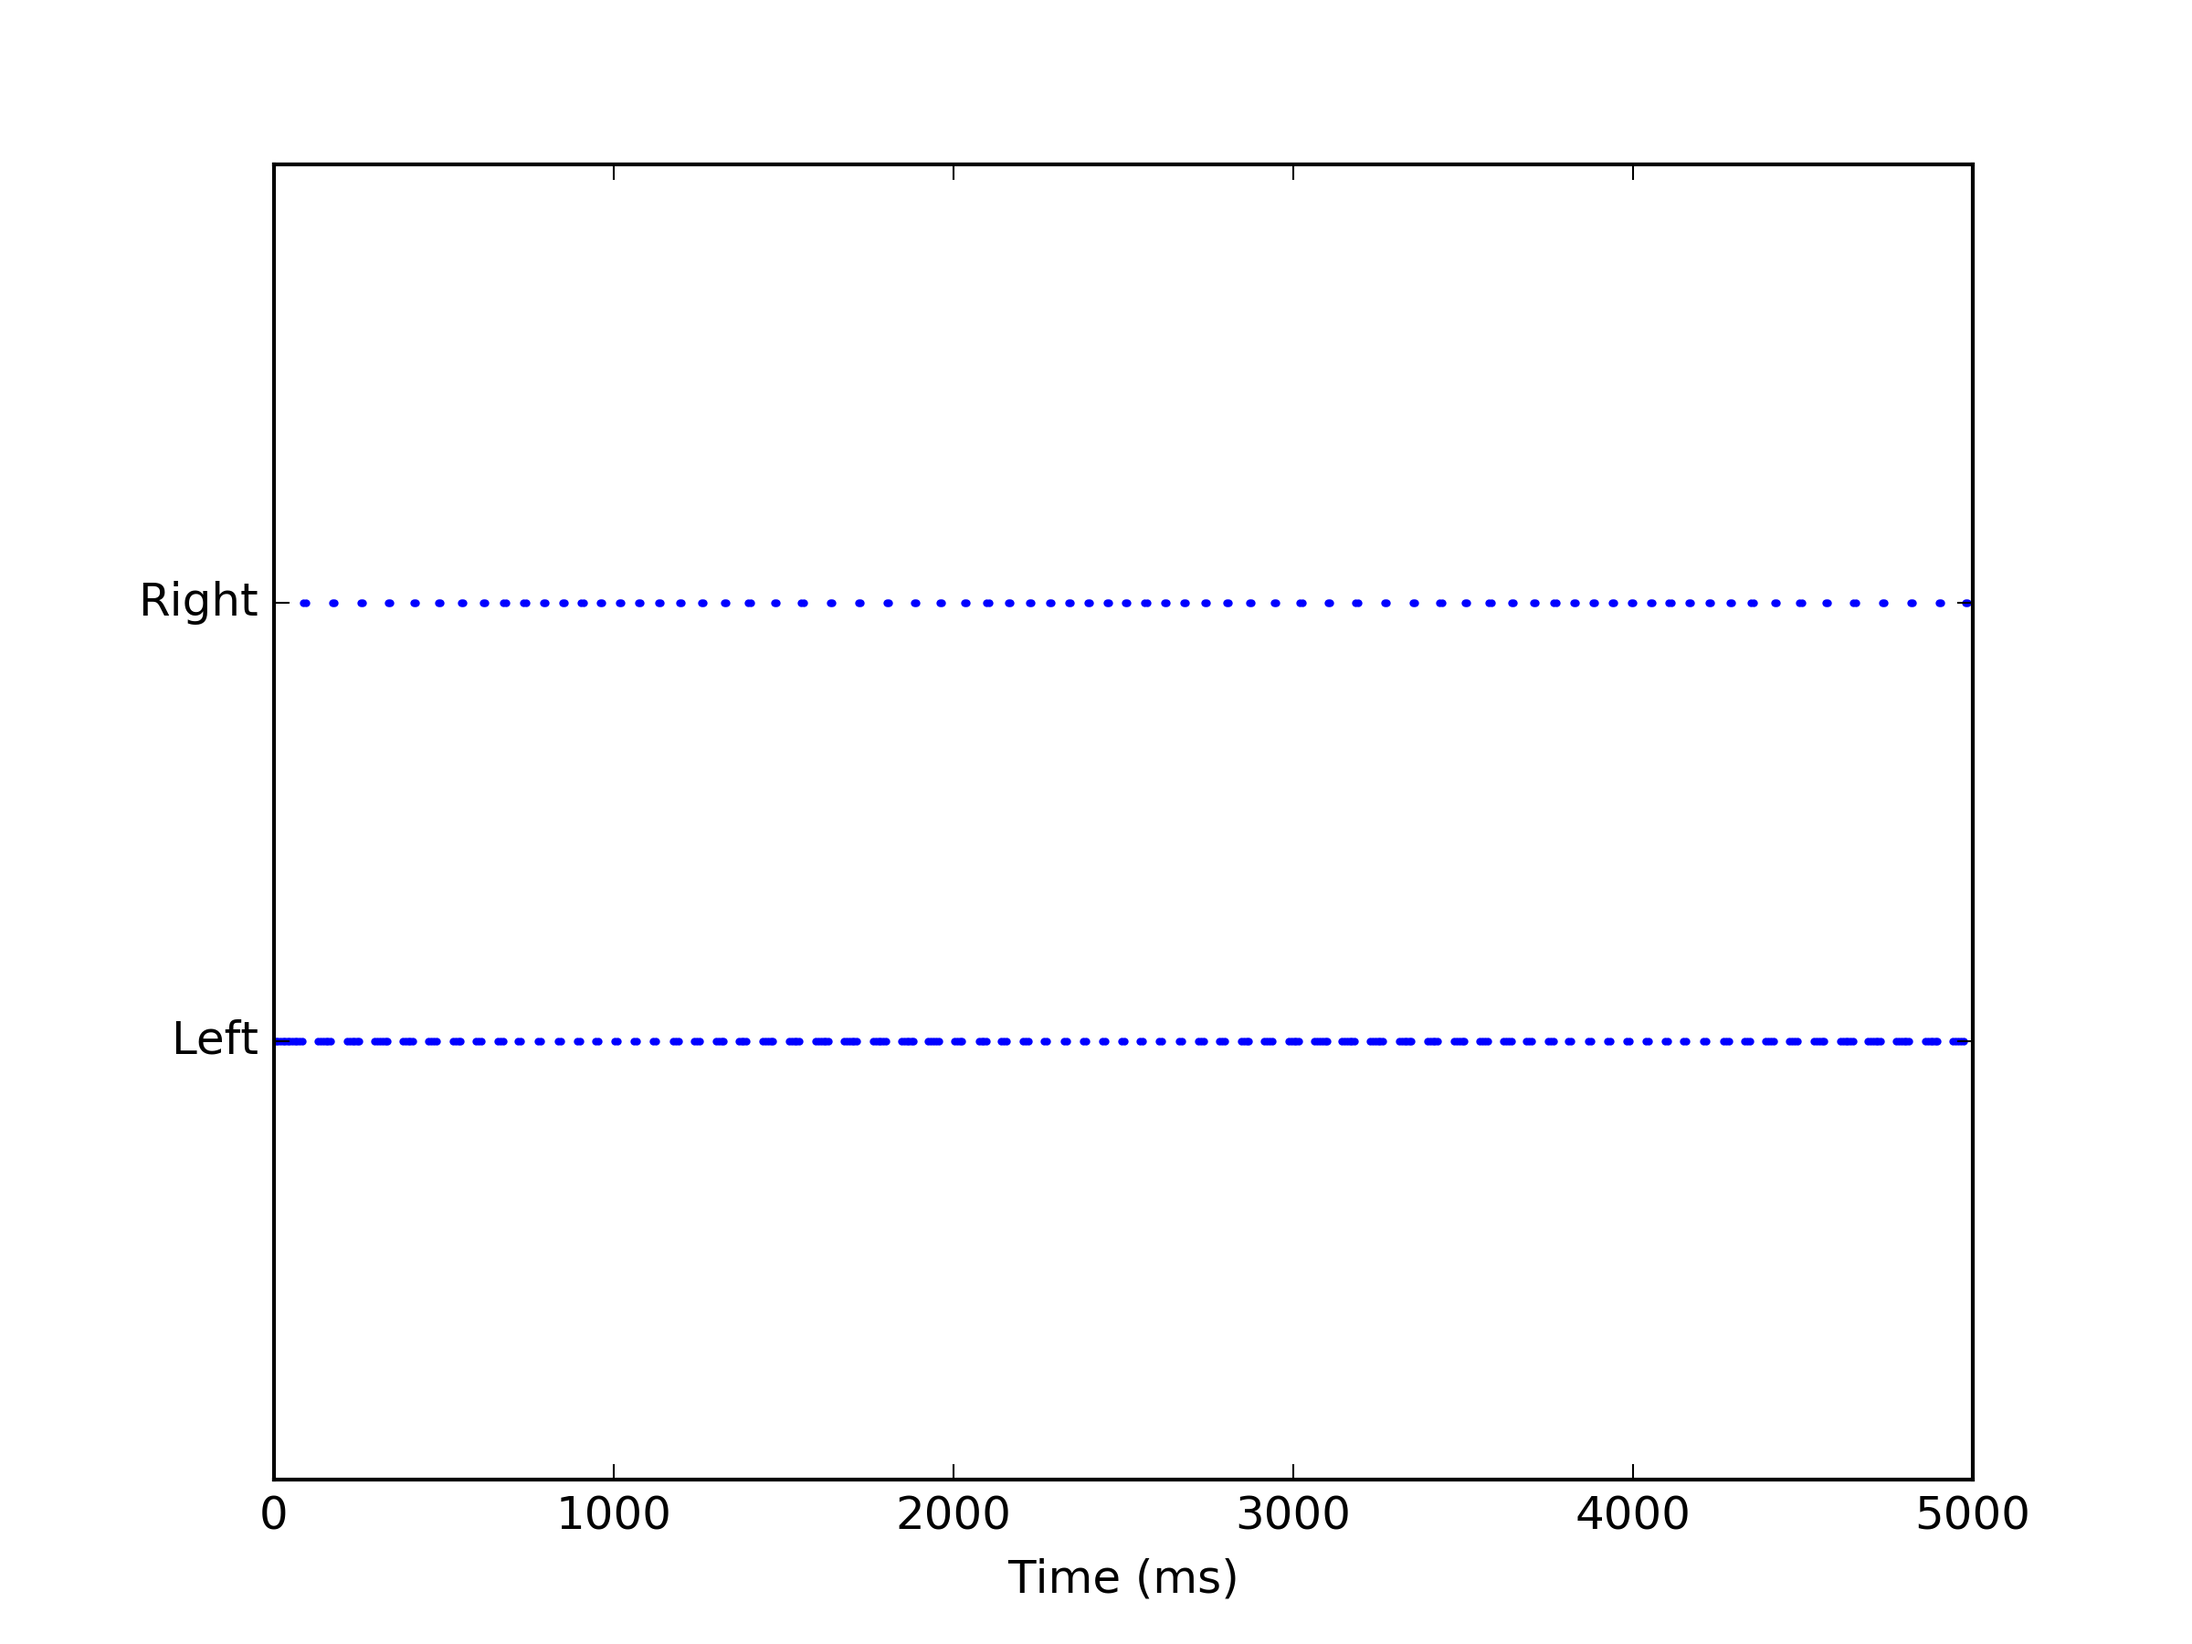
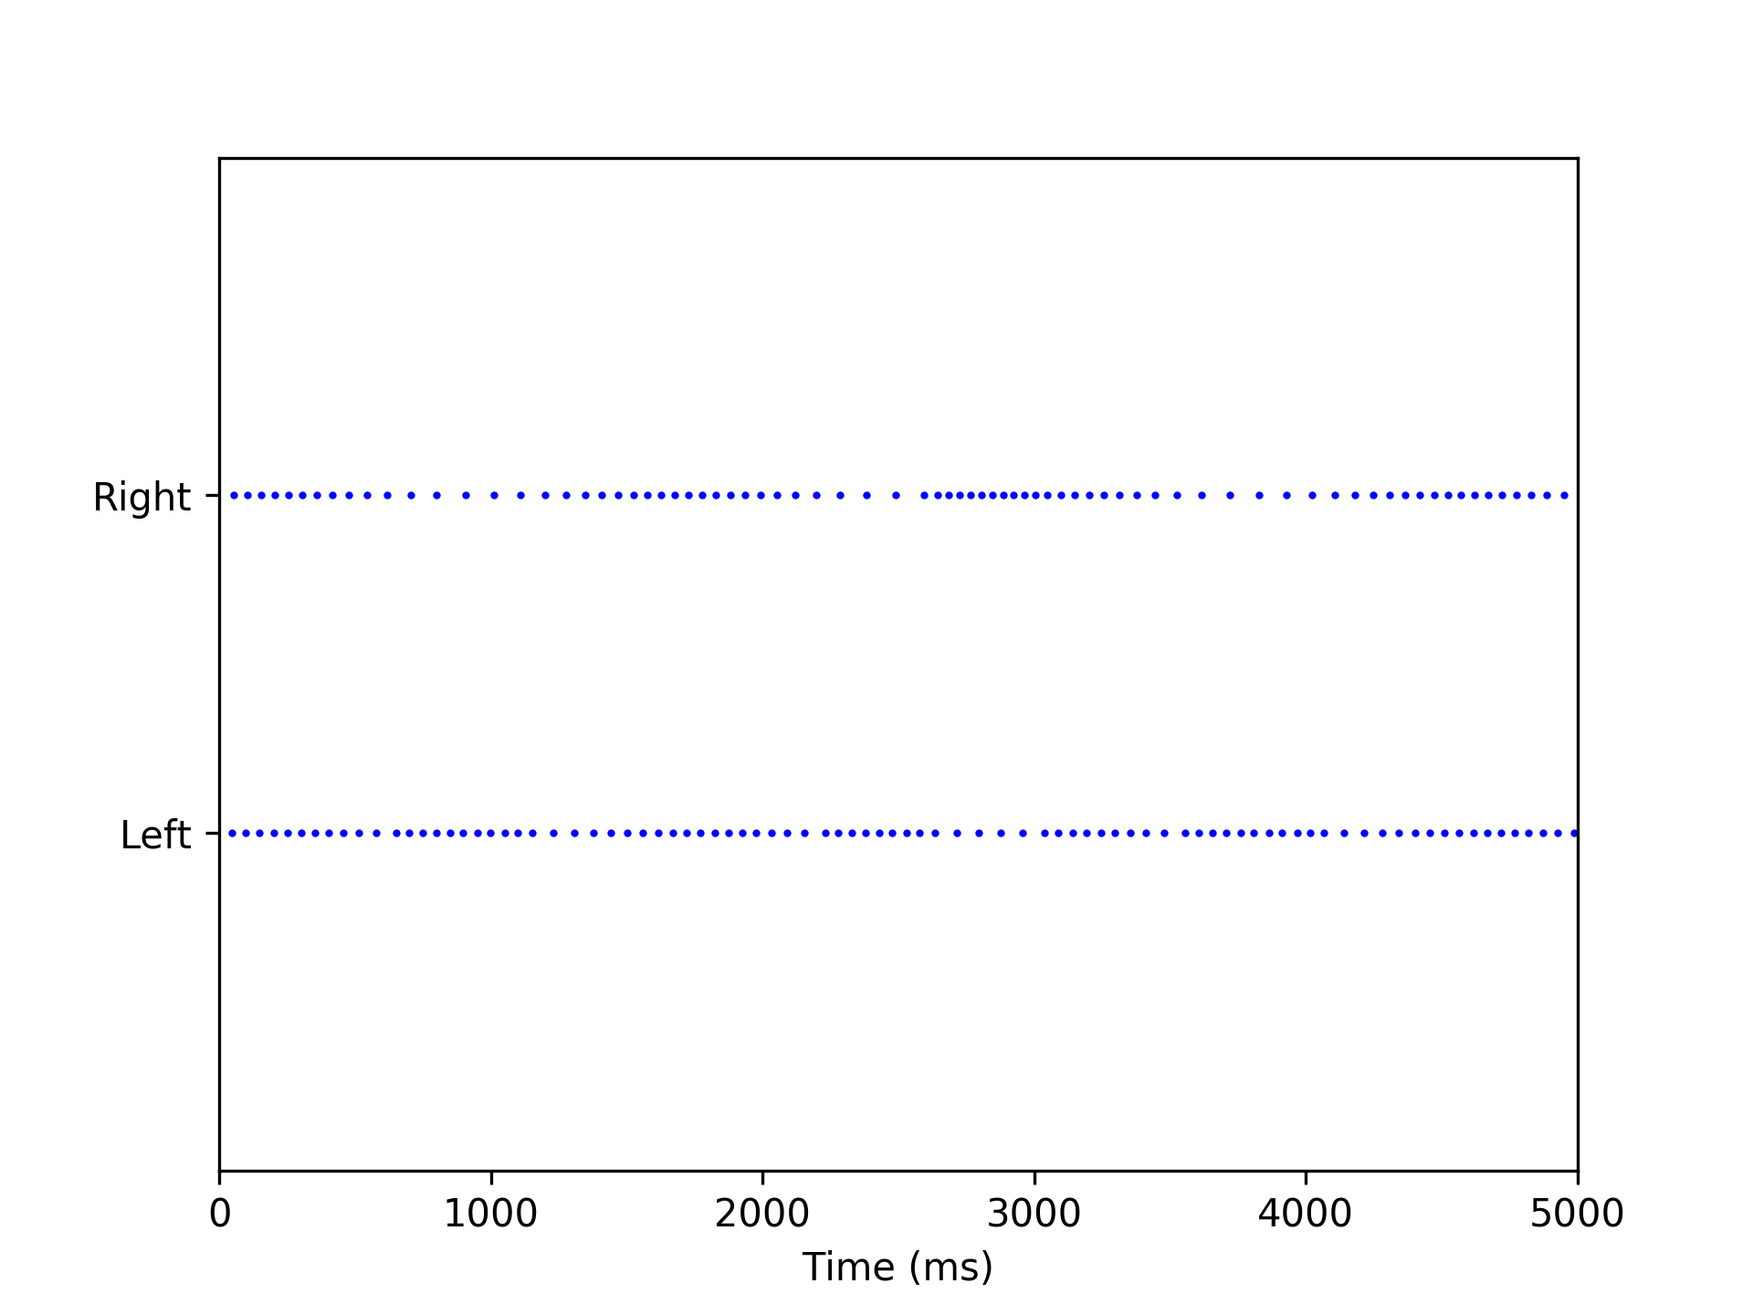
Update example3

diff --git a/example3/nest_sim.py b/example3/nest_sim.py
@@ -18,35 +18,39 @@ def get_current_offset(weight, rate, tau_m, tau_syn, C_m):
     return weight / C_m * rate * tau_m * tau_syn * 1e-3
 
 
-simtime = 10000.
-tau_m = 1.
-tau_syn = 20.
-C_m = 250.
-
-J = 200.
-max_rate = 50.
+simtime = 5000.  # needs to match the stoptime (here in ms) defined in the music config
+max_rate = 50.  # needs to match the max rate defined for the encoder in the music config
+J = 250.
 
 # setup and simulate
 
 nest.ResetKernel()
 
-nest.SetKernelStatus({'overwrite_files': True, 'resolution': 1.})
+tau_m = nest.GetDefaults('iaf_psc_exp', 'tau_m')
+tau_syn_ex = nest.GetDefaults('iaf_psc_exp', 'tau_syn_ex')
+tau_syn_in = nest.GetDefaults('iaf_psc_exp', 'tau_syn_in')
+assert abs(tau_syn_ex - tau_syn_in) < 1e-9
+C_m = nest.GetDefaults('iaf_psc_exp', 'C_m')
 
-music_in_proxy = nest.Create('music_event_in_proxy', 1, {'port_name': 'in'})
+music_event_in = nest.Create('music_event_in_proxy', 1, {'port_name': 'in'})
 
 neuron_left = nest.Create('iaf_psc_exp', 1, {
-    'E_L': -60.3 + get_current_offset(J, max_rate / 2., tau_m, tau_syn, C_m),  # add additional 0.3mV to make the left neuron a bit less excitable
-    'V_th': -60., 'tau_m': tau_m, 'tau_syn_ex': tau_syn, 'tau_syn_in': tau_syn, 'C_m': C_m
+    # since the default action is "accelerate right" the car will spend most
+    # time in the left half; we reduced the resting potential of the
+    # left-coding neurons to make it a bit less excitable and make the
+    # difference between the two neurons more visible
+    'E_L': -60.4 + get_current_offset(J, max_rate / 2., tau_m, tau_syn_ex, C_m),
+    'V_th': -60.
 })
 neuron_right = nest.Create('iaf_psc_exp', 1, {
-    'E_L': -60. + get_current_offset(-J, max_rate / 2., tau_m, tau_syn, C_m),
-    'V_th': -60., 'tau_m': tau_m, 'tau_syn_ex': tau_syn, 'tau_syn_in': tau_syn, 'C_m': C_m
+    'E_L': -60. + get_current_offset(-J, max_rate / 2., tau_m, tau_syn_ex, C_m),
+    'V_th': -60.
 })
 
 sd = nest.Create('spike_detector')
 
-nest.Connect(music_in_proxy, neuron_left, syn_spec={'weight': -J})
-nest.Connect(music_in_proxy, neuron_right, syn_spec={'weight': J})
+nest.Connect(music_event_in, neuron_left, syn_spec={'weight': -J})
+nest.Connect(music_event_in, neuron_right, syn_spec={'weight': J})
 
 nest.Connect(neuron_left, sd)
 nest.Connect(neuron_right, sd)
